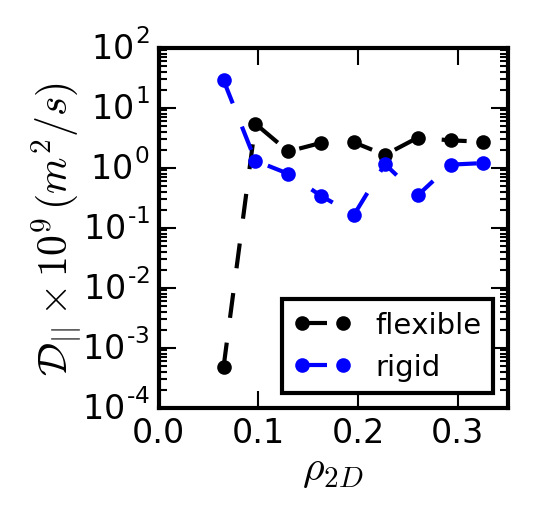
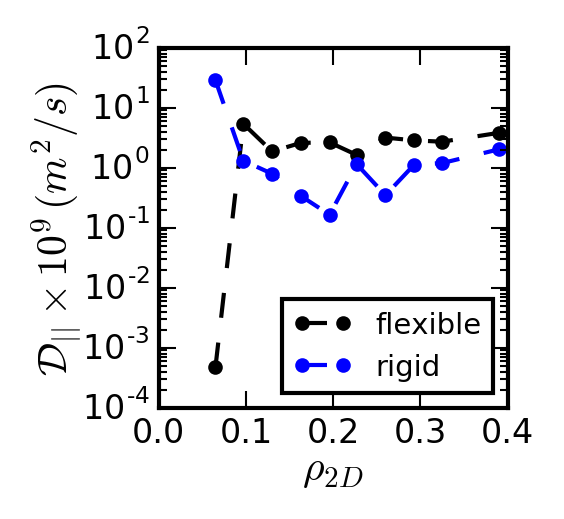
Working on figures and the draft

diff --git a/python/plot_rmsd.py b/python/plot_rmsd.py
@@ -49,8 +49,8 @@ def plot_scatter(plt_nm, csvL, loc, sep, ln, itr):
     for i in range(len(csvL)):
         for j in range(len(csvL[i])):
             for k in range(len(csvL[i][j])):
-                m,b = np.polyfit(csvL[i][j][k].dat[0,200:300],
-                                 csvL[i][j][k].dat[loc,200:300],1)
+                m,b = np.polyfit(csvL[i][j][k].dat[0,150:300],
+                                 csvL[i][j][k].dat[loc,150:300],1)
                #m,b = np.polyfit(csvL[i][j][k].dat[0,20:],
                #                 csvL[i][j][k].dat[loc,20:],1)
                 print("{0:.3f},{1:.5f}".format(dens[sep[i]],m/4.*A2_PS_TO_M2_S*(1e9)))
@@ -71,8 +71,8 @@ def plot_scatter(plt_nm, csvL, loc, sep, ln, itr):
     fn = 'diffusion_coeff_2D.png'
     im = plt.imread(fn, format='png')
     xl = ax.get_xlim(); yl = ax.get_ylim()
-    newax = f.add_axes([0.135, 0.43, 0.45, 0.97], anchor='SW',) # for flex
-   #newax = f.add_axes([0.285, 0.23, 0.60, 0.97], anchor='SW',) # rigid
+   #newax = f.add_axes([0.135, 0.40, 0.48, 0.97], anchor='SW',) # for flex
+    newax = f.add_axes([0.295, 0.23, 0.60, 0.97], anchor='SW',) # rigid
     newax.imshow(im, extent=[0, 1,0., 1.]) #, zorder=19)
     newax.axis('off')
     plt.savefig(plt_nm+csvL[i][j][k].key[loc]+'_insert.png',bbox_inches='tight',)

diff --git a/python/plot_diffusion.py b/python/plot_diffusion.py
@@ -24,13 +24,13 @@ def plot_scatter(csv):
     flexb = csv.dat[csv.find_keyword('df_m2_s')].flatten(); 
    #plt.plot(dens, flexb, 'k.--', label = "flexible")
     plt.plot(dens, rigid, 'b.--',label = "rigid")
-    ax.set_xlim([0.,0.35]); ax.set_ylim([0,6.02])
+    ax.set_xlim([0.,0.40]); ax.set_ylim([0,6])
    #ax.set_yscale("log", nonposy='clip')
 
    #ax.legend(loc = 0, ncol = 1, fontsize=7, columnspacing = 0.4,)
     ax.set_xlabel(r"$\rho_{2D}$",fontsize= 10)
     ax.set_ylabel(r"$\mathcal{D}_{||} \times 10^9\, (m^2/s)$",fontsize= 10)
-    plt.savefig(csv.csvfname[:-4]+'_r.png',bbox_inches = 'tight',transparent=True)
+    plt.savefig(csv.csvfname[:-4]+'_f.png',bbox_inches = 'tight'  ,transparent=True)
     plt.close()
 
 def main():                                                                        

diff --git a/python/plot_gr.py b/python/plot_gr.py
@@ -31,7 +31,7 @@ def get_plt_lst(csv_nm):
    #elif sep_siz == 10: cls = [3,4,5,14,]
    #elif sep_siz == 12: cls = [3,18,19,31,32,7,8,17,20,]
     elif sep_siz == 14: cls = [2,19,29,38,4,7,8,11,12,23,24,] #27]
-    elif sep_siz == 16: cls = [2,4,13]
+    elif sep_siz == 16: cls = [3,6,7,11,14,19,31,32,40,46]
 
     else: cls = [1] # dont have this sep size saved
     return cls
@@ -48,7 +48,7 @@ def plot_scatter(plt_nm, csvL, sep, ln):
         for j in range(len(csvL[i])):
            cls = get_plt_lst(csvL[i][j].csvfname)
           #cls = []
-          #for k in range(3,len(csvL[i][j].dat)):
+          #for k in range(31,len(csvL[i][j].dat)):
           #    if max(csvL[i][j].dat[k]) < 5.5 and sum(csvL[i][j].dat[k]) > 0.1: cls.append(k)
            ct=0; print(cls)
           #for k in cls:
